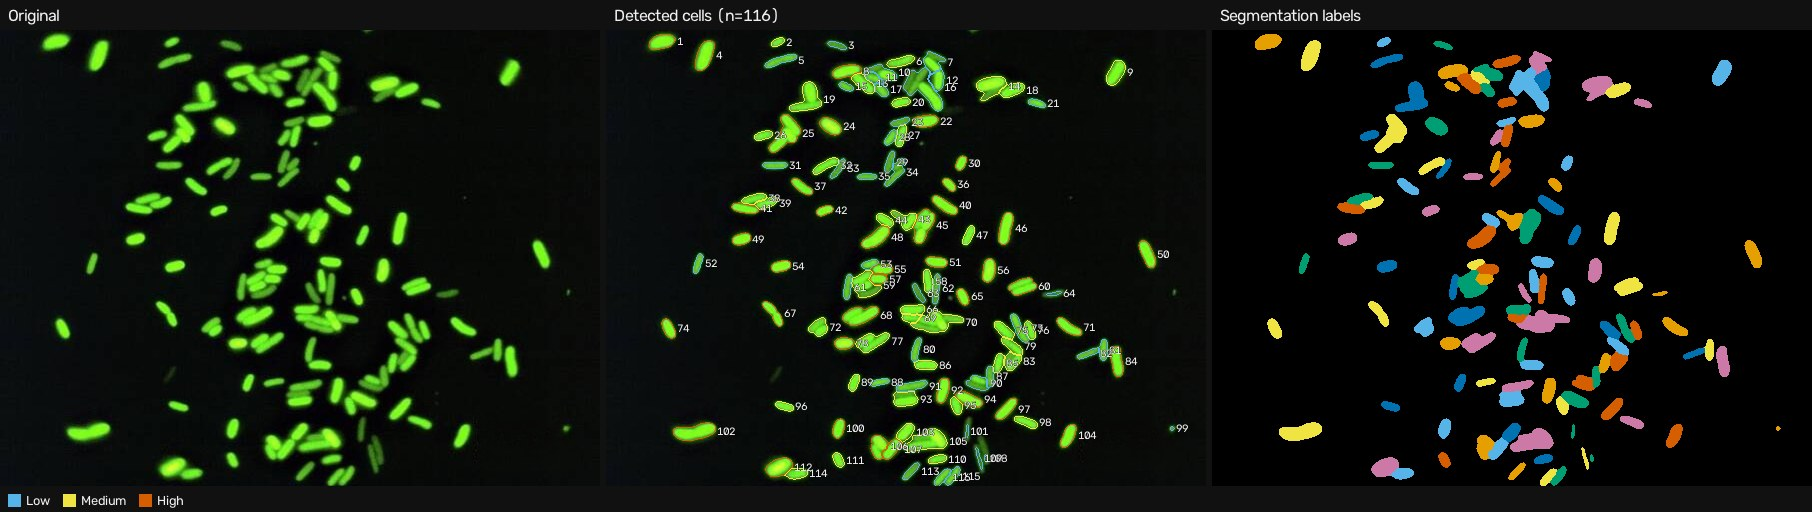
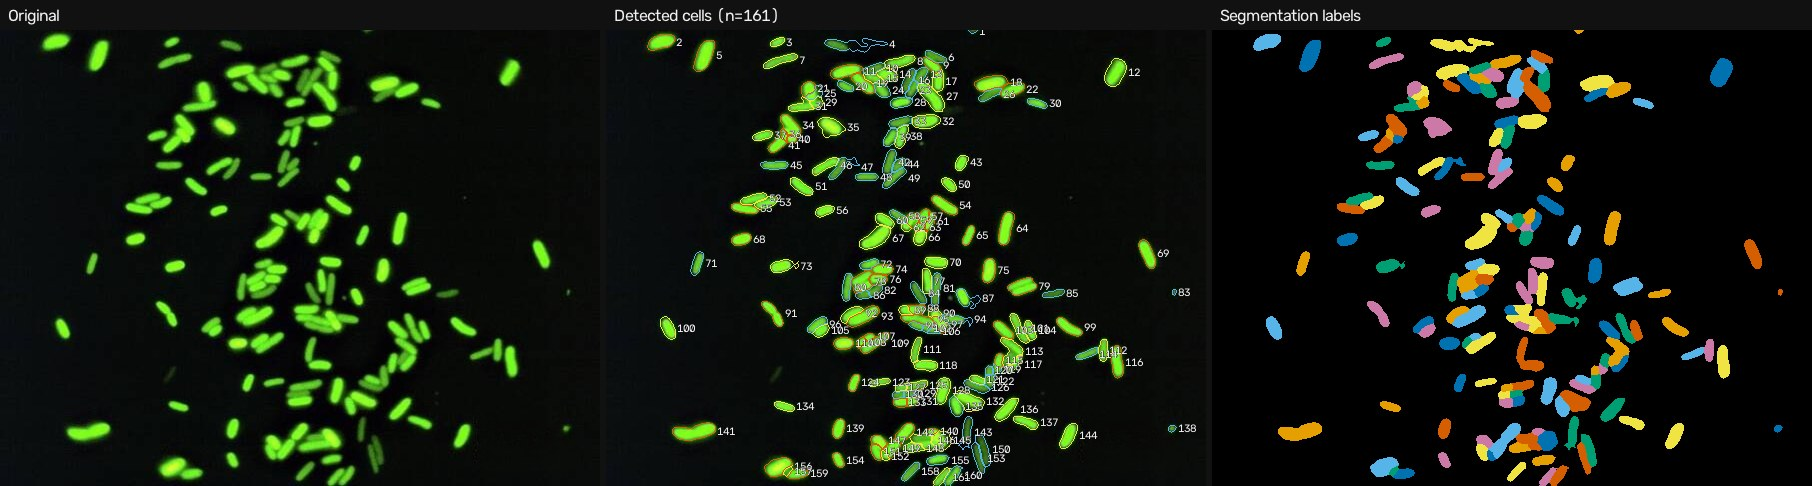
Add software documentation page and updated figures
Wiki-style write-up of the design iterations, dataset, model, training,
held-out evaluation, resource use, protocol and limitations, with all
numbers measured on the 75 test images.

diff --git a/docs/SOFTWARE_PAGE.md b/docs/SOFTWARE_PAGE.md
@@ -1,0 +1,339 @@
+# Software
+
+Cell-Identifier is a web tool that finds, outlines and measures every bacterial cell in a fluorescence micrograph. Its neural network was trained on expert-annotated images and scored on images it never saw during training.
+
+## Why We Developed the Software
+
+Most of our constructs report through fluorescence: a cell expressing GFP glows, and the number of glowing cells and how brightly each one glows tell us whether a genetic circuit works. Turning a micrograph into those numbers means finding every cell, separating cells that touch, and measuring each one. Done by hand, this is slow and subjective. Two people counting the same image rarely agree, and nobody can outline 150 touching rods the same way twice.
+
+We needed a tool that does this automatically and reproducibly, and that we could trust. Trust here means the tool's accuracy has been measured against real, expert-annotated images, not just checked by eye.
+
+We also had a practical constraint: the tool had to run on a website, on free cloud hosting, so any team member can use it from a browser without installing anything. That ruled out large models that need a GPU.
+
+This page describes how the software is built, how it evolved through four design iterations, the model we trained, how we validated it, and what it can and cannot do.
+
+## System Architecture
+
+The software has three layers:
+
+**Analysis engine (Python package).** This layer turns an image into a table of cells. It is a chain of independent stages:
+- loading and validating the image
+- normalising it
+- segmentation (finding cells and separating touching ones)
+- measurement
+- brightness classification
+- reporting
+
+Every setting lives in one validated configuration, and every result records that configuration, the software version and a SHA-256 fingerprint of the input file. So any number can be traced back to exactly how it was produced.
+
+**Segmentation engines.** Two engines are interchangeable:
+- **Trained network (default).** A compact U-Net that predicts, for every pixel, whether it belongs to a cell, whether it lies on a cell boundary, and how far it is from the cell's edge. A watershed step then turns these maps into individual cells.
+- **Classical (fallback).** Thresholding above a noise floor, followed by a watershed. It is fast and fully transparent, and is useful for round cells, which the network was not trained on.
+
+**Interfaces.**
+- a **web app** with an image viewer, toggleable layers, a side-by-side comparison and exports
+- a **command-line tool** for batch analysis and for scoring against your own annotations
+- a **Python API**
+
+**Design constraint.** The network has to be accurate on real micrographs *and* light enough to run on a server with 512 MB of memory and about a tenth of a CPU core.
+
+## Design Iterations
+
+The software went through four design passes. Each one was measured, and each measurement exposed the weakness the next iteration fixed.
+
+### Iteration 1 of 4: the original app
+
+The first version was a single 490-line script. It set a fixed brightness threshold (50 of 255), cleaned up the mask with a 5 × 5 pixel filter, and counted the remaining blobs.
+- On synthetic images with a known number of cells (60 per image), it found **55–57 of 60** rod-shaped cells but only **4–17 of 60** elliptical cells. The fixed threshold missed dim cells, and the clean-up filter erased thin ones.
+- Its built-in demo crashed on colour images.
+- An uploaded file's name went straight into the save path, which would let a crafted filename write files outside the upload folder.
+
+### Iteration 2 of 4: classical engine, rebuilt
+
+We rebuilt the engine as a modular, tested package:
+- an automatic (Otsu) threshold, held above a robust noise floor
+- a watershed that separates touching cells along dark gaps between them
+- shape and intensity measurements
+- a synthetic image generator with exact ground truth
+
+On synthetic images it became essentially perfect (F1 = 1.000 for separated cells, 0.965–0.976 with overlap).
+
+We then scored it on **real micrographs annotated by experts**. It reached only **AP @ 0.5 = 0.350** (F1 = 0.503). Synthetic success did not carry over to real cells: real bacteria touch along their whole length, vary in brightness and sit on hazy backgrounds. An alternative variant that splits cells by shape alone scored even worse (AP @ 0.5 = 0.036).
+
+### Iteration 3 of 4: trained network
+
+We trained a U-Net on real annotated images (see *Dataset Selection*). After just 200 training steps, about one minute on a laptop GPU, the network reached AP @ 0.5 = 0.77 on the test images **when told the true cell size**. With a simple size estimate it fell to 0.20.
+
+That pinpointed the real bottleneck: **estimating cell size**, which decides how much the image is rescaled before the network sees it. We replaced the estimate with one that uses the network itself (see *Computational Pipeline*). After full training (12,000 steps, 23 minutes), the network scored **AP @ 0.5 = 0.876**.
+
+### Iteration 4 of 4: hardening for real use and for the website
+
+Testing on edge cases revealed two failures:
+1. **A pure-noise image produced 327 "cells".** The network stretches contrast before analysing an image, so it can hallucinate structure in noise.
+2. **The bundled sample produced a ragged false "cell"** in a patch of out-of-focus haze.
+
+We added two quality gates: a confidence threshold, and a physical brightness test (a cell must be at least 3 noise standard deviations brighter than the background). Noise images now give **0 cells**, the haze artefact is gone, and test accuracy barely changed (AP @ 0.5 0.876 → 0.871).
+
+We also trained a lighter model (1.1 M parameters, working at a smaller scale) for speed. It reached a validation score of only 0.404 at the point where the chosen model had 0.52, so it was rejected. Instead we cut memory use by processing large images in tiles and separating each cell clump on its own.
+
+![The bundled E. coli GFP sample, analysed by the classical engine (iteration 2) and the trained network (iteration 4)](images/classical_vs_learned.jpg)
+
+*The same crop of our E. coli GFP sample. The classical engine merges packed rods into irregular blobs; the trained network separates them. Full-image counts: 116 vs 161 cells.*
+
+## Dataset Selection: Omnipose *bact_fluor*
+
+Many cell-segmentation datasets exist, but few contain **fluorescent bacteria** with **instance masks**, where every individual cell is outlined, which is what our use case needs. We searched Kaggle and the scientific repositories (Zenodo, OSF). The best match was the *bact_fluor* set published with Omnipose (Cutler et al., 2022).
+
+| Parameter | Value |
+|---|---|
+| Dataset | Omnipose *bact_fluor* (osf.io/xmury) |
+| License | CC BY-NC 3.0 (compatible with our non-commercial project) |
+| Images | 218 (143 training + 75 test), 16-bit greyscale |
+| Annotated cells | 35,403 |
+| Organisms | *E. coli*, *E. coli* + A22, *E. coli* + cephalexin, *B. thailandensis*, *Vibrio* |
+| Download used | 241 MB (images and masks only) |
+
+**Fit to our images.** We compared typical cell sizes, measured from the expert masks, with our own sample:
+
+| Group | Cell width (px) | Cell length (px) |
+|---|---|---|
+| *E. coli* ("wiggins", 117 images) | 8.8 | 25.0 |
+| *E. coli* + A22 (rounded) | 21.7 | 37.5 |
+| *B. thailandensis* | 14.1 | 32.7 |
+| *Vibrio* | 13.0 | 32.6 |
+| *E. coli* + cephalexin (filaments) | 26.6 | 133.8 |
+| **Our sample (*E. coli* GFP)** | **9.8** | **24.9** |
+
+The largest group, ordinary *E. coli*, matches our sample almost exactly.
+
+**Data split.** We used the dataset's own test split (75 images) **only for the final evaluation**. From the training images we held out 15 % per group (21 images) for validation, which was used to choose checkpoints and tune thresholds. The remaining 122 images were used for training.
+
+## Modeling Approach
+
+We use a **U-Net**, a convolutional network that compresses the image to capture context, then expands it back to full resolution to label every pixel. We chose it over larger models because it is accurate on microscopy and small enough for a free web server.
+
+For each pixel the network predicts three maps:
+
+- **Foreground probability.** Is this pixel part of a cell?
+- **Boundary probability.** Is it on a cell's edge, including the seam where two cells touch?
+- **Normalised distance.** How deep inside its cell is it? This is 1 on the cell's midline and 0 at its edge.
+
+The distance map is what lets us separate rods that touch along their entire length. Their midlines stay apart even when their edges merge, so each midline becomes a seed for one cell.
+
+**Scale.** The network works at one fixed scale. Every image is resized so that cells are about 10 px wide, and the results are resized back.
+
+**Augmentation.** To make a model trained on 16-bit laboratory images work on 8-bit colour photos, training images were randomly:
+- rescaled (0.7–1.45×), rotated and flipped
+- shifted in brightness, contrast and gamma
+- blurred and given Gaussian and photon (Poisson) noise
+- converted to 8 bits and JPEG-compressed
+
+**Training.**
+
+| Setting | Value |
+|---|---|
+| Patch size / batch | 256 × 256 px / 16 |
+| Iterations | 12,000 |
+| Optimiser | AdamW with one-cycle learning rate (peak 2 × 10⁻³) |
+| Loss | foreground: cross-entropy + Dice; boundary: weighted cross-entropy + Dice; distance: mean squared error |
+| Hardware / time | NVIDIA RTX 4060 laptop GPU, 23 minutes |
+| Checkpoint selection | best mean of AP @ 0.5 and AP @ 0.75 on the validation images |
+
+**Scoring.** We use the standard instance-segmentation metric, **average precision (AP)**:
+
+AP = matched cells ÷ (matched + missed + spurious cells)
+
+A predicted cell counts as matched when it overlaps a true cell by more than a given **IoU** (intersection over union). We report AP at IoU 0.5, 0.75 and 0.9 (increasingly strict), plus **F1** at IoU 0.5.
+
+## Computational Pipeline
+
+The script below is the core of how an image becomes a list of cells. It is a condensed but faithful version of the software's `learned.py` (some steps are noted as comments).
+
+```python
+import cv2
+import numpy as np
+from scipy import ndimage
+from skimage.measure import regionprops
+from skimage.segmentation import watershed
+
+net = cv2.dnn.readNetFromONNX("cell_unet.onnx")    # 7.9 MB, runs on CPU, no PyTorch
+TARGET_WIDTH = 10.0                                # cell width the network was trained at
+
+def normalise(img):
+    lo, hi = np.percentile(img, [1, 99.8])         # robust to bit depth and exposure
+    return np.clip((img - lo) / (hi - lo), 0, 1).astype(np.float32)
+
+def predict(img):
+    h, w = img.shape
+    padded = np.pad(img, ((0, -h % 16), (0, -w % 16)), mode="reflect")
+    net.setInput(padded[None, None])
+    return net.forward()[0, :, :h, :w]             # foreground, boundary, distance
+
+def estimate_cell_width(img, passes=4):
+    """Let the network measure the cells, then rescale until they are ~10 px wide."""
+    width = TARGET_WIDTH
+    for _ in range(passes):
+        factor = TARGET_WIDTH / width
+        crop = cv2.resize(img[:256, :256], None, fx=factor, fy=factor)   # (real code picks the brightest crop)
+        cells = segment(predict(crop))
+        measured = np.median([r.axis_minor_length for r in regionprops(cells)])
+        width *= measured / TARGET_WIDTH
+        if abs(np.log(measured / TARGET_WIDTH)) < 0.15:                 # converged
+            break
+    return width
+
+def segment(maps, prob=0.35, seed=0.5):
+    fg, boundary, dist = maps
+    mask = fg > prob
+    seeds, _ = ndimage.label((dist > seed) & mask & (boundary < 0.5))   # cell midlines
+    return watershed(-dist, seeds, mask=mask)                            # grow seeds to edges
+
+def analyse(raw):
+    img = normalise(raw)
+    factor = TARGET_WIDTH / estimate_cell_width(img)
+    maps = predict(cv2.resize(img, None, fx=factor, fy=factor))          # (real code tiles big images)
+    maps = np.stack([cv2.resize(m, raw.shape[::-1]) for m in maps])      # back to original pixels
+    cells = segment(maps)
+    # Quality gates: drop objects with mean foreground probability < 0.7, and
+    # objects whose raw brightness is < background + 3 robust noise SDs.
+    return cells
+```
+
+The full software adds the following on top of this core:
+- tiling, so large images stay within memory
+- per-clump watershed
+- the two quality gates
+- measurement of 27 properties per cell (from the raw intensities, never the processed image)
+- brightness classes, reports and the web viewer
+
+Training uses the same `normalise` function and target definitions, so training and inference cannot drift apart.
+
+## Results
+
+All results are on the **75 held-out test images (15,596 expert-annotated cells)**. None of them was used for training, checkpoint selection or tuning.
+
+### 1. Threshold tuning on validation data
+
+Three post-processing settings were grid-searched on the validation images only. The best five combinations:
+
+| Foreground threshold | Seed threshold | Min. confidence | Val. AP @ 0.5 | Val. AP @ 0.75 |
+|---|---|---|---|---|
+| **0.35** | **0.50** | **0.70** | **0.731** | **0.566** |
+| 0.35 | 0.50 | 0.60 | 0.730 | 0.565 |
+| 0.35 | 0.40 | 0.70 | 0.723 | 0.571 |
+| 0.45 | 0.50 | 0.70 | 0.728 | 0.565 |
+| 0.45 | 0.50 | 0.60 | 0.727 | 0.565 |
+
+The top settings lie within 0.01 of each other, so performance does not hinge on a fragile choice of thresholds.
+
+### 2. Accuracy on held-out test images
+
+| Engine | AP @ 0.5 | AP @ 0.75 | AP @ 0.9 | F1 @ 0.5 |
+|---|---|---|---|---|
+| Classical engine (iteration 2) | 0.350 | 0.177 | 0.007 | 0.503 |
+| **Trained network, automatic cell size (default)** | **0.871** | **0.730** | **0.077** | **0.927** |
+| Trained network, given the true cell size | 0.859 | 0.721 | 0.075 | 0.916 |
+
+By organism:
+
+| Group | Images | Classical AP @ 0.5 | Network AP @ 0.5 | Network AP @ 0.75 | Network F1 |
+|---|---|---|---|---|---|
+| *E. coli* | 58 | 0.340 | **0.893** | 0.743 | 0.942 |
+| *Vibrio* | 7 | 0.554 | **0.905** | 0.780 | 0.949 |
+| *E. coli* + A22 | 2 | 0.553 | **0.896** | 0.836 | 0.942 |
+| *B. thailandensis* | 6 | 0.221 | **0.729** | 0.609 | 0.840 |
+| *E. coli* + cephalexin | 2 | 0.114 | **0.536** | 0.430 | 0.648 |
+
+### 3. Cell-size estimation
+
+Getting the scale right turned out to matter more than anything else (see Iteration 3). We compared three ways of estimating cell width on the 75 test images. Error is relative to the expert-measured median width. Times are on a single CPU thread.
+
+| Method | Median error | Within 25 % | Time per image |
+|---|---|---|---|
+| Quick threshold-based estimate | n/a (led to AP @ 0.5 = 0.20) | n/a | < 0.1 s |
+| Try 8 fixed sizes, keep the most consistent | 206 % | 44 % | 1.11 s |
+| **Iterative: let the network measure, then rescale (used)** | **2.6 %** | **99 %** | **0.31 s** |
+
+### 4. Edge cases and quality gates
+
+| Input | Before gates | After gates |
+|---|---|---|
+| Pure noise, 256 × 256 px (3 random images) | 327 cells | **0 cells** |
+| Blank image | 0 cells | 0 cells |
+| Out-of-focus haze in our sample | 1 ragged false cell | removed |
+| Test-set AP @ 0.5 | 0.876 | 0.871 |
+
+### 5. Training progress (validation set)
+
+| Training step | Val. AP @ 0.5 | Val. AP @ 0.75 | Time |
+|---|---|---|---|
+| 500 | 0.556 | 0.274 | 1.5 min |
+| 3,000 | 0.690 | 0.422 | 8.5 min |
+| 7,500 | 0.700 | 0.534 | 16.0 min |
+| 12,000 (final) | 0.724 | 0.562 | 23.2 min |
+
+### 6. Resource use on a web server
+
+Measured with a single CPU thread, to approximate the free hosting tier:
+
+| Measurement | Value |
+|---|---|
+| Model file | 7.9 MB (1.96 M parameters) |
+| Server memory, idle with model loaded | ~110 MB |
+| Analysing the sample (600 × 456 px): CPU time / peak memory | 1.9 s / ~275 MB |
+| Analysing a 2048 × 2048 px image: CPU time / peak memory | 27 s / ~480 MB |
+| A 6 MP image before memory optimisation | 663 MB peak (over the 512 MB limit) |
+| Alternative runtime (ONNX Runtime) instead of OpenCV | only 1.1× faster, so not adopted |
+
+### Main findings
+
+- **Accuracy.** Training on real annotated cells raised AP @ 0.5 from 0.350 to **0.871** and F1 from 0.503 to **0.927**, a 2.5-fold improvement. On ordinary *E. coli*, the cells most like ours, F1 is **0.942**.
+- **Scale is the key variable.** The same network scored 0.20 or 0.87 depending only on how the image was rescaled. Our self-measuring size estimate even beat giving the network the true size (0.871 vs 0.859): for elongated filaments, the median width is not the ideal working scale.
+- **Specificity.** The quality gates turned 327 false detections in pure noise into 0, at a cost of 0.005 AP on real data.
+- **Portability.** The 7.9 MB model runs inside OpenCV with no extra dependencies and fits a 512 MB server.
+
+## Protocol for Use
+
+How to get reliable numbers from your own images:
+
+1. **Image acquisition.** Image cells in a single focal plane, at the same exposure and gain for every sample you intend to compare. Avoid saturating pixels; brightness measurements are meaningless at saturation. TIFF (8- or 16-bit) is best; PNG and JPEG work.
+2. **Analysis.** Open the image in the web app, or run `cell-identifier analyze images/ -o results/` for a whole folder. The default settings were tuned on held-out data and need no adjustment for typical rod-shaped bacteria. If cells are unusually small or large, enter their approximate width in pixels under *Detection & segmentation*.
+3. **Check.** Toggle the outline layer, and use *Compare* to view original and annotated side by side. In *Validate* mode the tool scores itself against images with known answers.
+4. **Calibrate brightness classes.** The Low / Medium / High cut-offs (126 and 147 of 255) were set on our sample. For your own experiment, image a negative and a positive control under identical settings and set the cut-offs from them in a configuration file.
+5. **Validate on your own data (recommended).** Hand-annotate two or three of your images (for example in Fiji), then run `cell-identifier evaluate my_images/ --masks my_masks/` to measure accuracy on your own microscope.
+6. **Report.** Export the cell table (CSV) and the full report (JSON). The report records the software version, the input file's fingerprint and every setting used, so the analysis can be reproduced exactly.
+
+## Predictions and Design Implications
+
+- **Expected accuracy on our images.** Our sample closely matches the *E. coli* test group (width 9.8 vs 8.8 px, length 24.9 vs 25.0 px). We therefore expect roughly F1 ≈ 0.94 on our own GFP *E. coli* images. This is a prediction, best confirmed with step 5 of the protocol.
+- **Where to be careful.** Filamentous cells (F1 0.65) and densely packed *B. thailandensis* (0.84) are measurably harder. Round cells (cocci, yeast) are outside the training data and can be split in two. Use the classical engine, or set the cell width manually, for those.
+- **Pixel-perfect outlines.** AP @ 0.9 remains low (0.077). On cells only ~9 px wide, outlines must agree with the annotator to within about one pixel, roughly the annotators' own uncertainty. Counts and positions are reliable; area values carry about ±1 px of boundary uncertainty.
+- **Free hosting is slow, not broken.** With about 0.1 CPU core, the sample takes roughly 20 s, and uploads are capped at 2 MP. A server with 0.5 CPU or more brings that down to a few seconds and allows 4 MP images.
+
+## Conclusion
+
+This page describes the design, training and validation of Cell-Identifier's cell-segmentation engine. We showed that:
+
+- Rules tuned on synthetic images fail on real micrographs: AP @ 0.5 = 0.350 against expert annotations.
+- A compact U-Net trained on 122 expert-annotated fluorescence images reaches **AP @ 0.5 = 0.871 and F1 = 0.927** on 75 unseen test images, and **F1 = 0.942** on *E. coli*.
+- Estimating cell size with the network itself is essential: it lands within 25 % of the true size on 99 % of test images.
+- Physical quality gates eliminate false detections in noise without hurting accuracy.
+- The whole system fits a 7.9 MB model and a 512 MB web server, so anyone can use it from a browser.
+
+Every number on this page was measured on held-out data. The website includes a validation mode and an evaluation command, so users can check the tool on their own images rather than take it on trust.
+
+## References
+
+Cutler, K.J., Stringer, C., Lo, T.W., et al. "Omnipose: a high-precision morphology-independent solution for bacterial cell segmentation." *Nature Methods*, vol. 19, pp. 1438–1448, 2022. (Training data: *bact_fluor*, osf.io/xmury, CC BY-NC 3.0.)
+
+Ronneberger, O., Fischer, P., Brox, T. "U-Net: Convolutional Networks for Biomedical Image Segmentation." *MICCAI*, LNCS 9351, pp. 234–241, 2015.
+
+Stringer, C., Wang, T., Michaelos, M., Pachitariu, M. "Cellpose: a generalist algorithm for cellular segmentation." *Nature Methods*, vol. 18, pp. 100–106, 2021. (Source of the average-precision metric convention.)
+
+Otsu, N. "A Threshold Selection Method from Gray-Level Histograms." *IEEE Transactions on Systems, Man, and Cybernetics*, vol. 9, no. 1, pp. 62–66, 1979.
+
+Crameri, F., Shephard, G.E., Heron, P.J. "Choosing Suitable Color Palettes for Accessible and Accurate Science Figures." *Current Protocols*, vol. 4, no. 8, 2024.
+
+Okabe, M., Ito, K. "Color Universal Design (CUD): How to make figures and presentations that are friendly to colorblind people." 2008.
+
+Source code: github.com/delnorte-sd/Cell-Identifier
